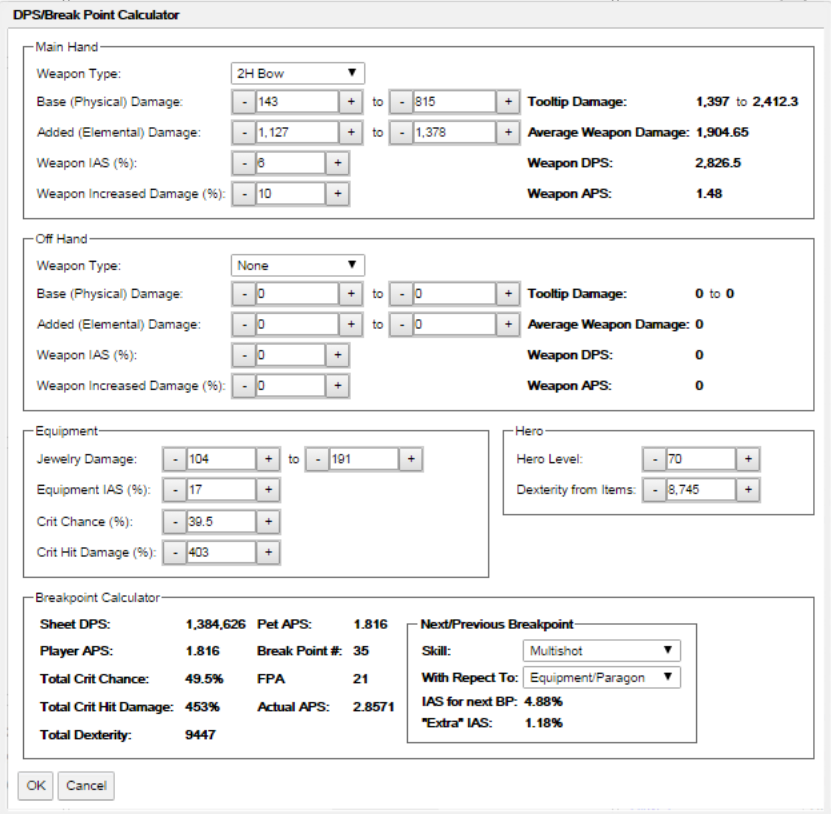
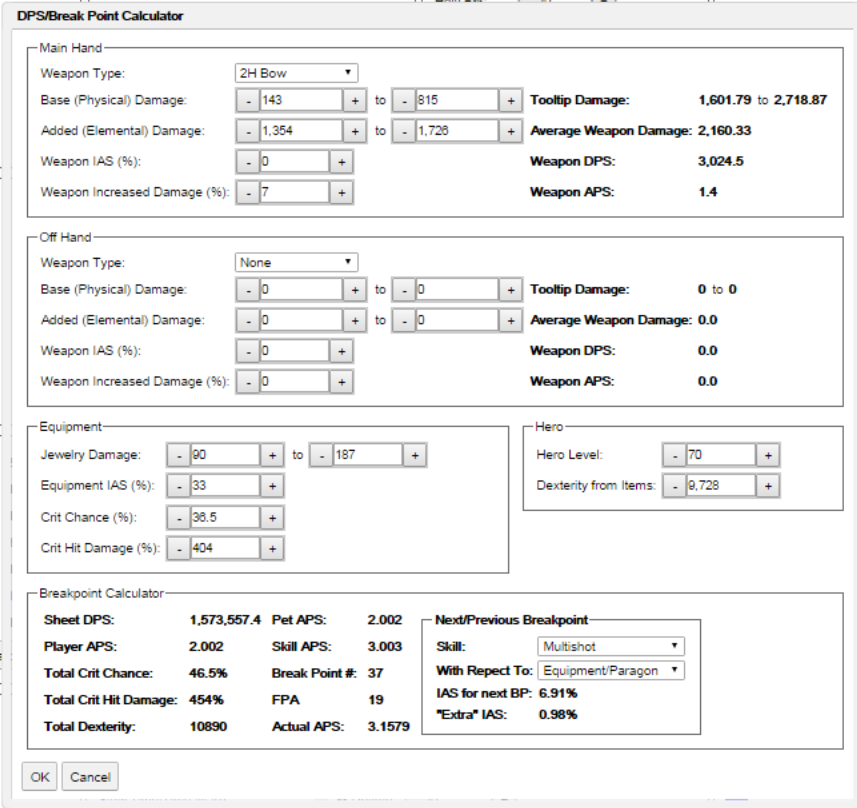
Added skill APS, uptime.

Changed region(s): [[0.0, 0.0, 0.9928, 0.9901], [0.9627, 0.7426, 0.9928, 0.9282], [0.8424, 0.9901, 0.8724, 1.0]]

diff --git a/war/help.html b/war/help.html
@@ -461,6 +461,7 @@ The "Breakpoint Calculator" panel shows calculations for the following data:
 <li><b>Total Crit Hit Damage</b>: The total Critical Hit Damage for the Hero</li>
 <li><b>Total Dexterity</b>: The total Dexterity for the Hero</li>
 <li><b>Pet APS</b>: The Pet (companions and sentries) APS</li>
+<li><b>Skill APS</b>: The APS for the currently selected skill (in Next/Previous Breakpoint box)</li>
 <li><b>Break Point #</b>: The breakpoint increment, for the selected skill</li>
 <li><b>FPA</b>: The # of Frames per Attack, for the selected skill</li>
 <li><b>Actual APS</b>: The # of actual Attacks Per Second, based on the computed breakpoint, for the selected skill</li>

diff --git a/src/com/dawg6/web/dhcalc/client/DPSCalculator.java b/src/com/dawg6/web/dhcalc/client/DPSCalculator.java
@@ -90,6 +90,7 @@ public class DPSCalculator extends BasePanel {
 	private final ListBox skillBox;
 	private double mainHand_Aps;
 	private double offHand_aps;
+	private Label skillApsLabel;
 
 	public DPSCalculator(MainPanel main) {
 
@@ -249,14 +250,24 @@ public class DPSCalculator extends BasePanel {
 		flexTable_6.setWidget(0, 1, dps);
 		dps.setStyleName("boldText");
 
+		Label label_11 = new Label("Skill APS:");
+		flexTable_6.setWidget(1, 2, label_11);
+		label_11.setWordWrap(false);
+		label_11.setStyleName("boldText");
+
+		skillApsLabel = new Label("0");
+		skillApsLabel.setTitle("APS selected skill");
+		flexTable_6.setWidget(1, 3, skillApsLabel);
+		skillApsLabel.setStyleName("boldText");
+
 		Label lblBreakPoint = new Label("Break Point #:");
-		flexTable_6.setWidget(1, 2, lblBreakPoint);
+		flexTable_6.setWidget(2, 2, lblBreakPoint);
 		lblBreakPoint.setWordWrap(false);
 		lblBreakPoint.setStyleName("boldText");
 
 		breakpoint = new Label("0");
 		breakpoint.setTitle("Break Point # for selected skill");
-		flexTable_6.setWidget(1, 3, breakpoint);
+		flexTable_6.setWidget(2, 3, breakpoint);
 		breakpoint.setStyleName("boldText");
 
 		CaptionPanel cptnpnlNewPanel = new CaptionPanel(
@@ -378,12 +389,12 @@ public class DPSCalculator extends BasePanel {
 		Label lblAttacksPer = new Label("FPA");
 		lblAttacksPer.setWordWrap(false);
 		lblAttacksPer.setStyleName("boldText");
-		flexTable_6.setWidget(2, 2, lblAttacksPer);
+		flexTable_6.setWidget(3, 2, lblAttacksPer);
 
 		fpaLabel = new Label("0");
 		fpaLabel.setTitle("Frames per Attack");
 		fpaLabel.setStyleName("boldText");
-		flexTable_6.setWidget(2, 3, fpaLabel);
+		flexTable_6.setWidget(3, 3, fpaLabel);
 
 		Label lblTotalCritDamage = new Label("Total Crit Hit Damage:");
 		flexTable_6.setWidget(3, 0, lblTotalCritDamage);
@@ -395,13 +406,13 @@ public class DPSCalculator extends BasePanel {
 		actualCD.setStyleName("boldText");
 
 		Label lblBpAps = new Label("Actual APS:");
-		flexTable_6.setWidget(3, 2, lblBpAps);
+		flexTable_6.setWidget(4, 2, lblBpAps);
 		lblBpAps.setWordWrap(false);
 		lblBpAps.setStyleName("boldText");
 
 		actualAps = new Label("0");
 		actualAps.setTitle("Actual APS (based on Breakpoint)");
-		flexTable_6.setWidget(3, 3, actualAps);
+		flexTable_6.setWidget(4, 3, actualAps);
 		actualAps.setStyleName("boldText");
 
 		Label lblTotalDexterity = new Label("Total Dexterity:");
@@ -490,6 +501,8 @@ public class DPSCalculator extends BasePanel {
 				&& this.main.getItemPanel().isHuntersWrath())
 			aps *= 1.3;
 
+		skillApsLabel.setText(Util.format(Math.round(aps * 10000.0) / 10000.0));
+		
 		this.currentBp = bp.get(aps);
 
 		this.breakpoint.setText(String.valueOf(this.currentBp.bp));

diff --git a/src/com/dawg6/web/dhcalc/server/util/DHCalcProperties.java b/src/com/dawg6/web/dhcalc/server/util/DHCalcProperties.java
@@ -39,7 +39,8 @@ public class DHCalcProperties {
 	private static final String DB = "com.dawg6." + APP_NAME + ".db";
 	
 	private static final DHCalcProperties instance = new DHCalcProperties();
-
+	private static final long started = System.currentTimeMillis();
+	
 	private boolean devmode;
 	private String apiKey;
 	private String apiSecret;
@@ -69,6 +70,10 @@ public class DHCalcProperties {
 		} catch (Exception e) {
 			log.log(Level.SEVERE, "Error setting properties", e);
 		}
+	}
+	
+	public long getUptime() {
+		return System.currentTimeMillis() - started;
 	}
 	
 	public static DHCalcProperties getInstance() {
